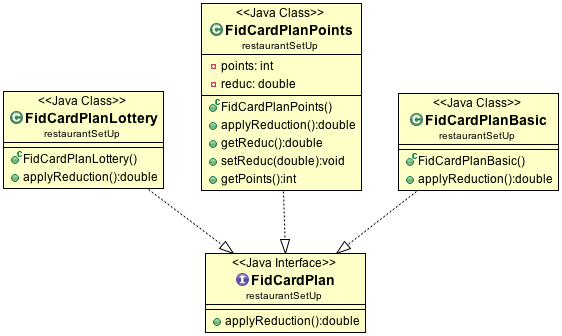
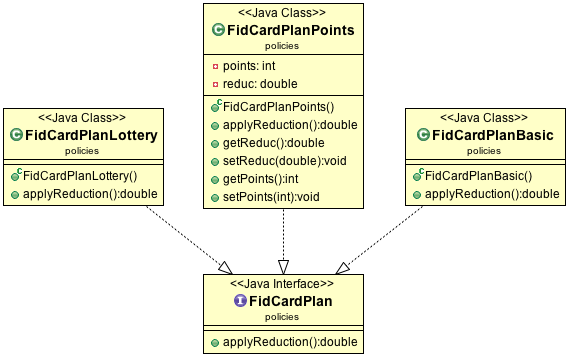
update uml, test coverage and javadoc

diff --git a/report/src/5-testing.tex b/report/src/5-testing.tex
@@ -43,7 +43,7 @@ factors}''~\cite{artimaHowMuchCoverage} that themselves depend
 on how the code is written and what functions it implements.
 Eventhough no particular goal for the coverage was set,
 the plug-in allowed us to highlight the parts of the code that \emph{might not have been tested}
-or that \emph{might be useless}. We finally achieved a $84.9\%$ code coverage after review (fig.~\ref{fig:coverage_end}). (--> @John UPDATE)
+or that \emph{might be useless}. We finally achieved a $84.5\%$ code coverage after review (fig.~\ref{fig:coverage_end}).
 
 \begin{figure}[h]
   \begin{center}

diff --git a/code/restaurantSetUp/FullMeal.java b/code/restaurantSetUp/FullMeal.java
@@ -12,6 +12,7 @@ public class FullMeal extends Meal{
 	
 	/**
 	 * Class constructor.
+	 * @param name a String containing the name of the  fullmeal
 	 */
 	public FullMeal(String name){
 		super(name);
@@ -50,7 +51,6 @@ public class FullMeal extends Meal{
 	 * SetFullMeals method which checks whether the added dishes are of they same type 
 	 * and names the meal either standard (different types) or of a type.
 	 * 
-	 * @param name 		 name of the fullmeal
 	 * @param starter 	 a <code>Starter</code>
 	 * @param mainDish 	 a <code>MainDish</code>
 	 * @param dessert    a <code>Dessert</code>

diff --git a/code/restaurantSetUp/HalfMeal.java b/code/restaurantSetUp/HalfMeal.java
@@ -56,7 +56,6 @@ public class HalfMeal extends Meal {
 	 * SetDishes method which checks whether the added dishes are of they same type 
 	 * and names the meal either standard (different types) or of a type.
 	 * 
-	 * @param name 		 name of the halfmeal
 	 * @param mainDish 	 a <code>MainDish</code>
 	 * @param secChoice  a <code>Dish</code> that can be a <code>Starter</code> or a <code>Dessert</code>
 	 * 
